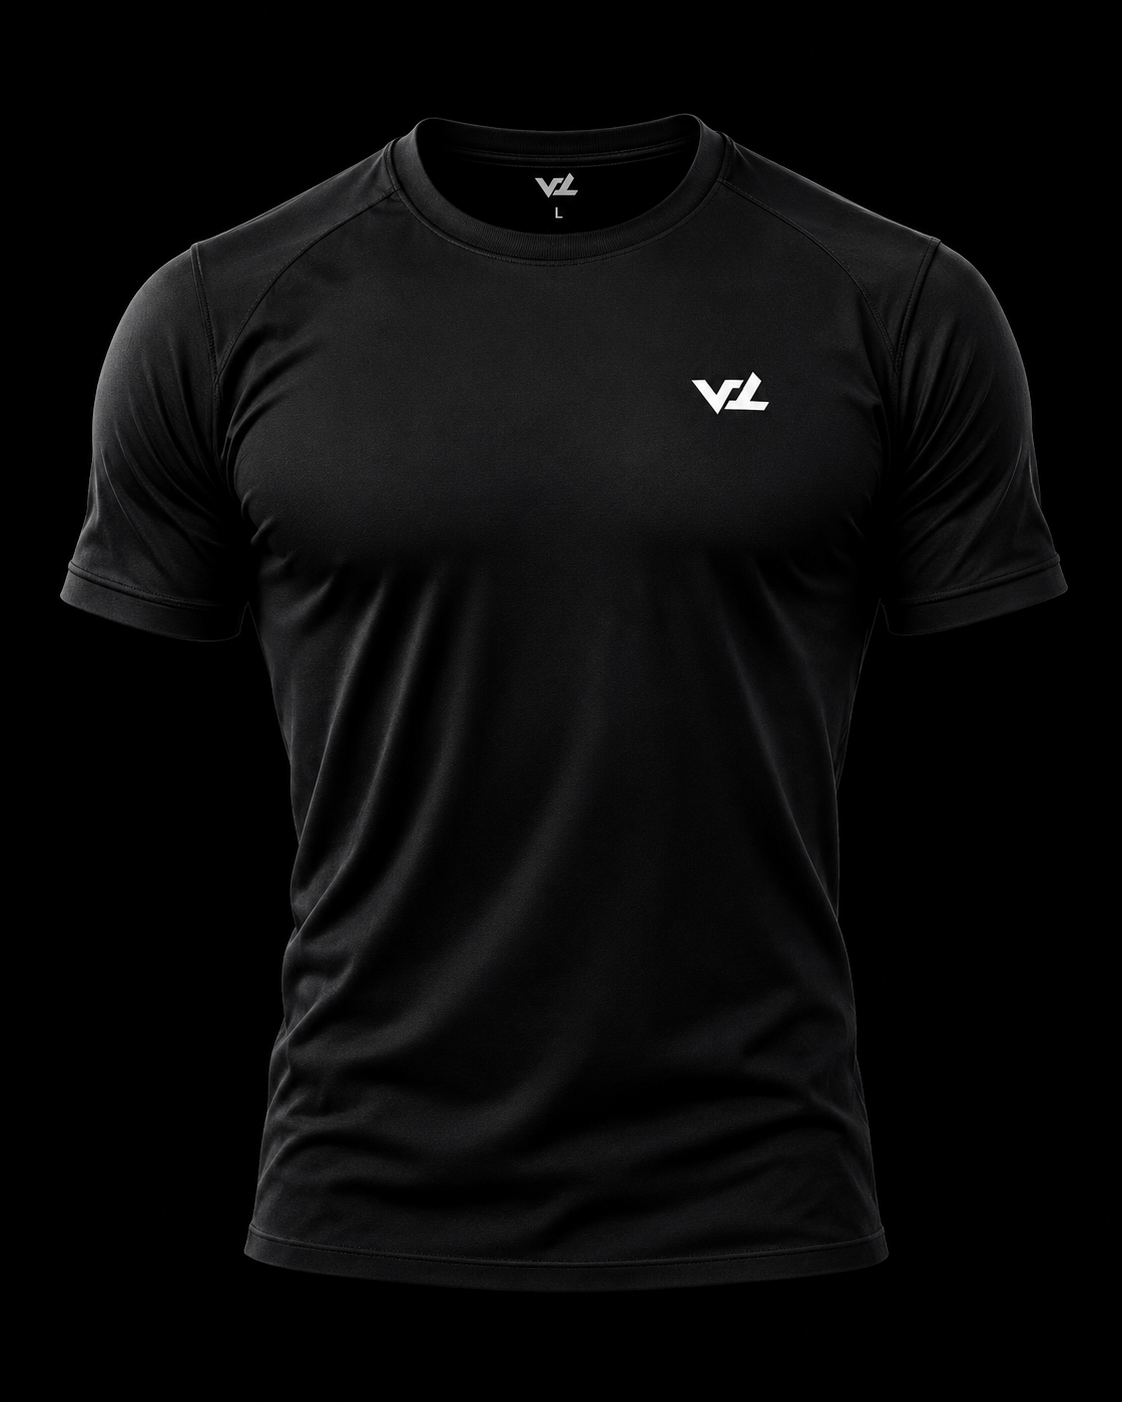
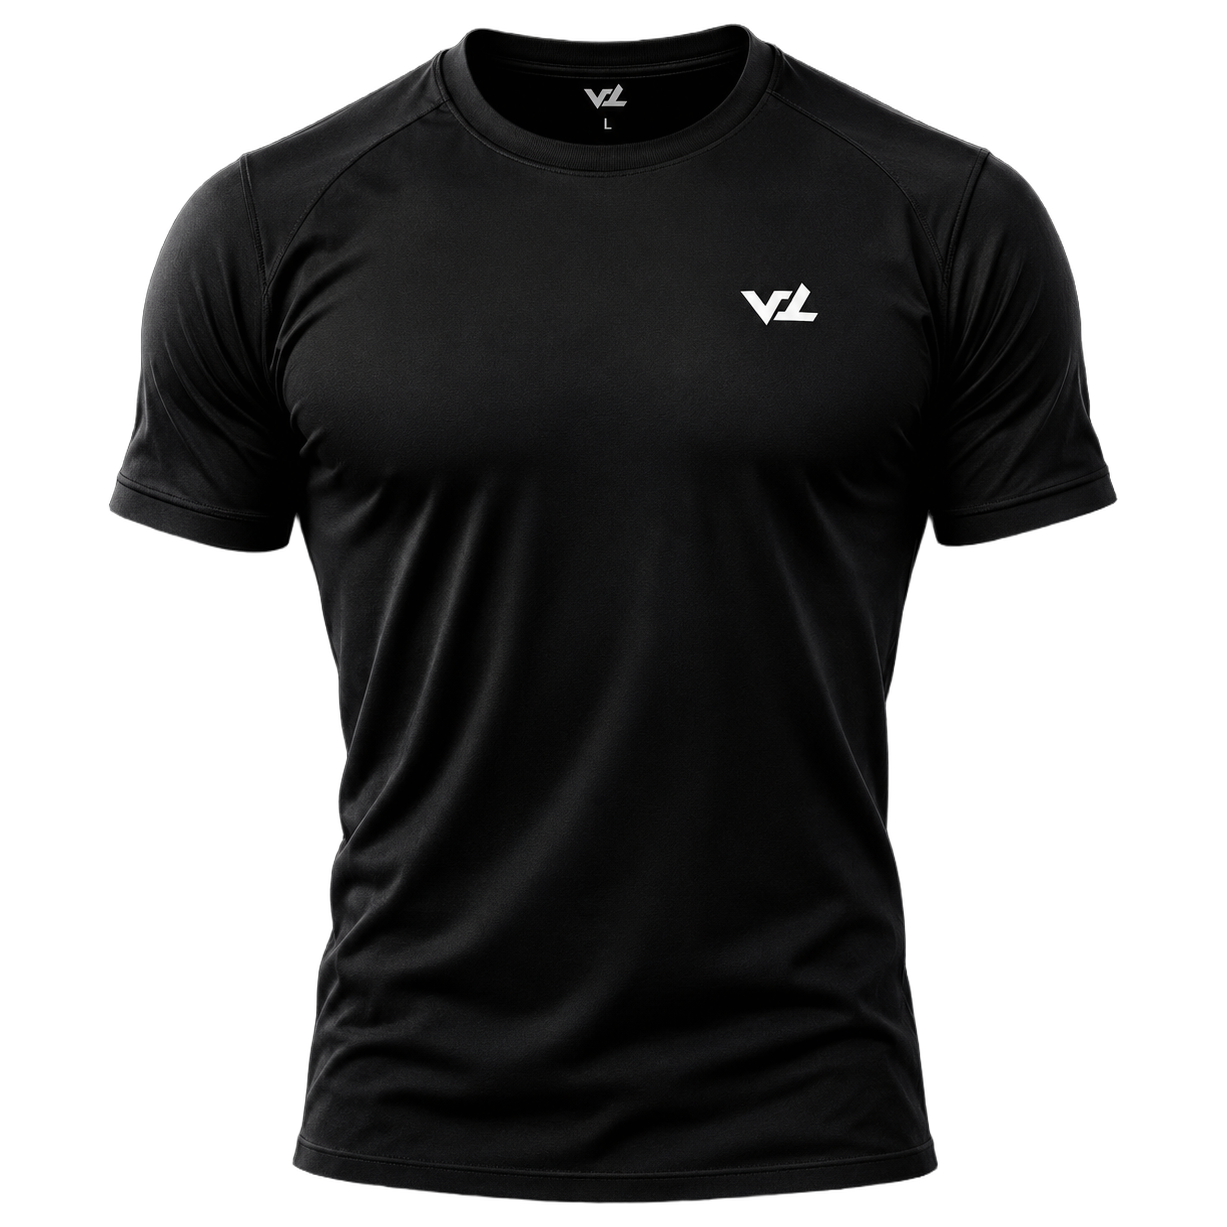
feat(storefront): update product cards to 2 per row with transparent background-removed images matching mockup

diff --git a/src/components/VittalLifestyleStorefront.tsx b/src/components/VittalLifestyleStorefront.tsx
@@ -343,8 +343,8 @@ export function VittalLifestyleStorefront({ initialProducts }: VittalLifestyleSt
           </Link>
         </div>
 
-        {/* Product Cards Grid */}
-        <div className="grid grid-cols-2 sm:grid-cols-3 lg:grid-cols-4 gap-3 sm:gap-5 md:gap-6">
+        {/* Product Cards Grid: Strictly 2 cards per row matching reference */}
+        <div className="grid grid-cols-2 gap-3 sm:gap-4 md:gap-5 max-w-4xl mx-auto">
           {trendingProducts.map((product) => {
             const isWish = isInWishlist(product.id);
             const discountPercent =
@@ -352,13 +352,28 @@ export function VittalLifestyleStorefront({ initialProducts }: VittalLifestyleSt
                 ? Math.round(((product.mrp - product.price) / product.mrp) * 100)
                 : null;
 
+            // Clean short category label for secondary metadata line
+            const shortCategory =
+              product.category === "Gym Supplementaries"
+                ? "Isolate"
+                : product.category === "Dates & Nuts"
+                ? "Dates"
+                : product.category === "Candy & Chocolates"
+                ? "Chocolates"
+                : product.category === "Outfits"
+                ? "Outfits"
+                : product.category === "Apparels"
+                ? "Apparel"
+                : product.category;
+
             return (
               <div
                 key={product.id}
-                className="group relative rounded-2xl bg-[#141416] hover:bg-[#1A1A1E] border border-white/5 hover:border-white/20 p-3 sm:p-4 flex flex-col justify-between transition-all duration-200 shadow-md hover:shadow-xl"
+                className="group relative rounded-2xl bg-[#141416] hover:bg-[#18181C] border border-white/5 hover:border-white/15 p-3 sm:p-4 flex flex-col justify-between transition-all duration-200 shadow-sm hover:shadow-md"
               >
-                {/* Wishlist Heart Button */}
+                {/* Wishlist Heart Icon (Clean minimal outline matching reference) */}
                 <button
+                  type="button"
                   onClick={(e) => {
                     e.preventDefault();
                     e.stopPropagation();
@@ -369,42 +384,47 @@ export function VittalLifestyleStorefront({ initialProducts }: VittalLifestyleSt
                       image: product.poster_image,
                     });
                   }}
-                  className="absolute top-3.5 right-3.5 z-10 w-7 h-7 sm:w-8 sm:h-8 rounded-full bg-black/40 hover:bg-black/80 backdrop-blur-md flex items-center justify-center text-neutral-400 hover:text-rose-500 transition-colors"
+                  className="absolute top-3 right-3 z-10 text-neutral-400 hover:text-white transition-colors p-1"
                   aria-label="Wishlist"
                 >
                   <Heart
-                    className={`w-3.5 h-3.5 sm:w-4 sm:h-4 ${
+                    className={`w-4 h-4 sm:w-5 sm:h-5 transition-colors ${
                       isWish ? "fill-rose-500 text-rose-500" : "stroke-current"
                     }`}
                   />
                 </button>
 
-                {/* Product Image Link */}
+                {/* Product Poster Image (Transparent cutout floating seamlessly on card background) */}
                 <Link
                   href={`/products/${product.id || product.slug}`}
-                  className="relative w-full aspect-square rounded-xl overflow-hidden bg-neutral-900/60 mb-3 flex items-center justify-center p-2"
+                  className="relative w-full aspect-square flex items-center justify-center my-1"
                 >
                   <Image
                     src={product.poster_image || "/vittal/product-whey-protein-jar.png"}
                     alt={product.name}
                     fill
+                    sizes="(max-width: 768px) 50vw, 400px"
                     className="object-contain p-2 group-hover:scale-105 transition-transform duration-300"
                   />
                 </Link>
 
                 {/* Product Metadata */}
-                <div>
+                <div className="mt-1">
                   <Link
                     href={`/products/${product.id || product.slug}`}
                     className="block"
                   >
-                    <h3 className="font-mograph text-xs sm:text-sm font-semibold text-white group-hover:text-[#D4AF37] transition-colors truncate mb-1">
+                    <h3 className="font-mograph text-xs sm:text-sm font-semibold text-white group-hover:text-[#D4AF37] transition-colors leading-snug line-clamp-2 min-h-[34px] sm:min-h-[38px] mb-0.5">
                       {product.name}
                     </h3>
                   </Link>
 
+                  <p className="font-mograph text-[10px] sm:text-xs text-neutral-400 font-medium mb-1.5 truncate">
+                    {shortCategory}
+                  </p>
+
                   {/* Price Row */}
-                  <div className="flex items-baseline gap-2 mb-2">
+                  <div className="flex items-baseline gap-1.5 mb-1.5">
                     <span className="font-mograph text-sm sm:text-base font-extrabold text-white">
                       ₹{product.price.toLocaleString("en-IN")}
                     </span>
@@ -415,25 +435,14 @@ export function VittalLifestyleStorefront({ initialProducts }: VittalLifestyleSt
                     )}
                   </div>
 
-                  {/* Discount Badge & Quick Actions */}
-                  <div className="flex items-center justify-between gap-2 mt-2">
-                    {discountPercent ? (
-                      <span className="font-movault bg-[#2B2317] text-[#E5C07B] text-[11px] font-bold tracking-wider uppercase px-2 py-0.5 rounded">
+                  {/* Discount Badge */}
+                  {discountPercent && (
+                    <div>
+                      <span className="font-movault bg-[#2B2317] text-[#E5C07B] text-[10px] sm:text-[11px] font-bold tracking-wider uppercase px-2 py-0.5 rounded inline-block">
                         {discountPercent}% OFF
                       </span>
-                    ) : (
-                      <span className="font-mograph text-[10px] text-neutral-500 font-medium">In Stock</span>
-                    )}
-
-                    <button
-                      onClick={(e) => handleAddToCart(e, product)}
-                      className="bg-white/10 hover:bg-[#D4AF37] hover:text-black text-white p-1.5 rounded-lg transition-colors"
-                      title="Add to Bag"
-                      aria-label="Add to Bag"
-                    >
-                      <ShoppingCart className="w-3.5 h-3.5" />
-                    </button>
-                  </div>
+                    </div>
+                  )}
                 </div>
               </div>
             );
